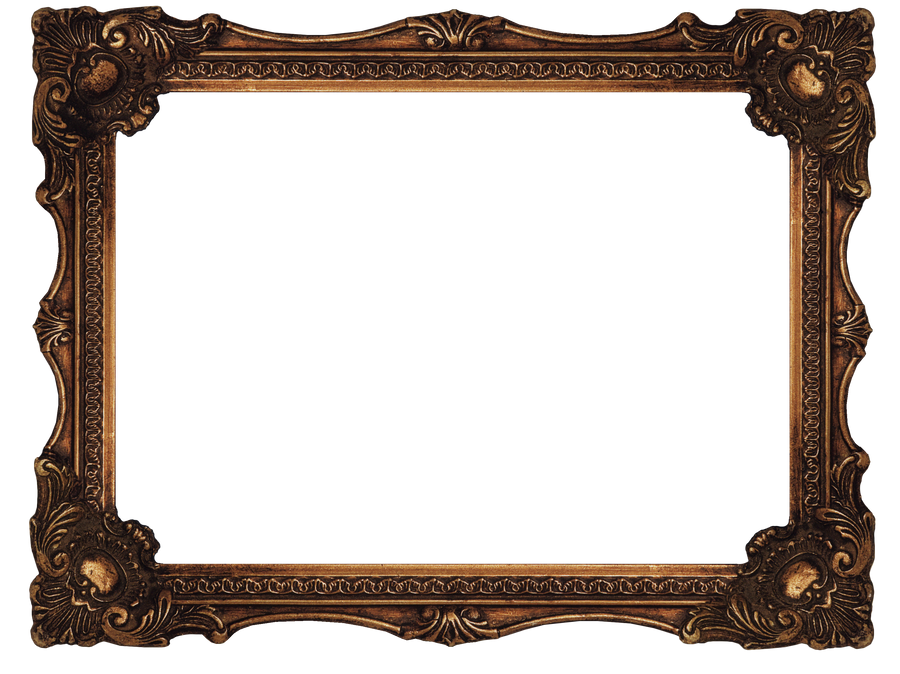
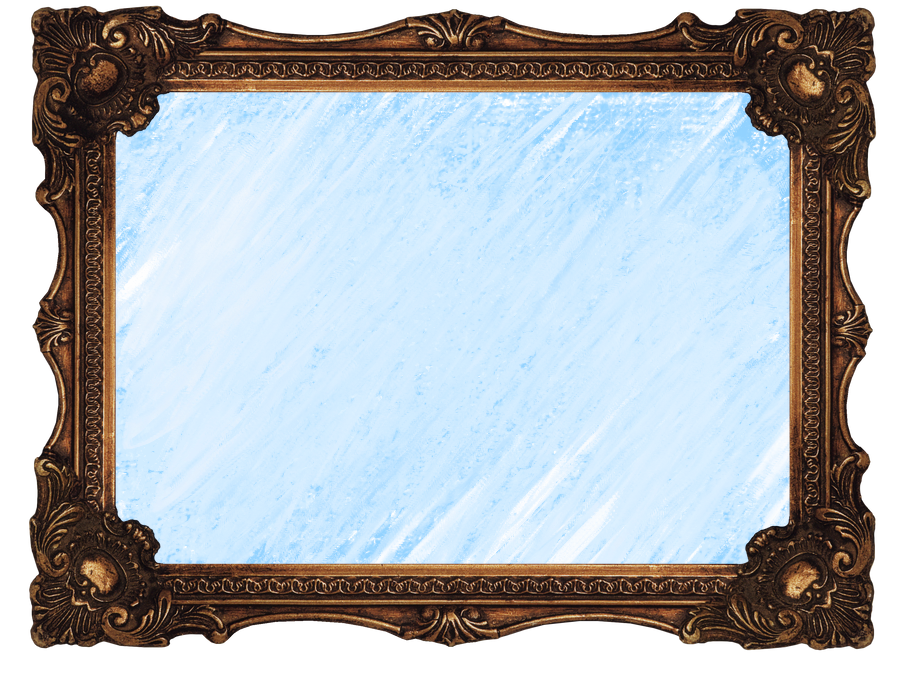
worked on buttons and formatting

diff --git a/main.css b/main.css
@@ -1,0 +1,164 @@
+.inbed { 
+    text-align: center;
+    
+}
+
+/* The code below adds a white background-color and black text color for the body of the page. */
+body {
+    color: rgb(194, 219, 255);
+    text-align: center;
+    background-image: url(assets/portfolioBackground.png);
+}
+
+
+/* The code below adds a black background-color and white text color for each section heading. */
+.section {
+    color:rgb(237, 247, 251);
+    text-align: center;
+    background-color: rgb(87, 123, 139);
+}
+
+p{
+    font-family: 'Bahnschrift', sans-serif;
+    font-size: 20px;
+}
+
+h1{
+    font-family: 'Segoe UI', sans-serif;
+    font-size: 40px;
+}
+
+.container {
+  position: relative;
+  text-align: center;
+  color: white;
+}
+
+.gram{
+  width: 200px;
+}
+
+.doily{
+  width:1150px;
+  margin-top: -65px;
+}
+
+#about{
+background-image: url(assets/woodframe.png);
+background-repeat: no-repeat;
+background-size: 750px;
+background-position-y: 150px;
+padding-top: 150px;
+width: 820px;
+padding-bottom: 40px;
+}
+
+.fish1 img{
+  width: 250px;
+}
+
+.fish1 {
+  background-color: transparent;
+  border-color: black;
+  box-sizing: content-box;
+}
+
+.fish2 img{
+  width: 300px;
+}
+
+.fish2{
+  border-color: black;
+  background-color: transparent;
+}
+
+.fish3 img{
+  width: 300px;
+}
+
+.fish3{
+  border-color: black;
+  background-color: transparent;
+}
+
+.fish4 img{
+  width: 300px;
+}
+
+.fish4{
+  border-color: black;
+  background-color: transparent;
+}
+
+.fish5 img{
+  width: 300px;
+}
+
+.fish5{
+  border-color: black;
+  background-color: transparent;
+}
+
+/* The sidebar menu */
+.sidebar {
+  height: 100%; /* 100% Full-height */
+  width: 0; /* 0 width - change this with JavaScript */
+  position: fixed; /* Stay in place */
+  z-index: 1; /* Stay on top */
+  top: 0;
+  left: 0;
+  background-color: #111; /* Black*/
+  overflow-x: hidden; /* Disable horizontal scroll */
+  padding-top: 60px; /* Place content 60px from the top */
+  transition: 0.5s; /* 0.5 second transition effect to slide in the sidebar */
+}
+
+/* The sidebar links */
+.sidebar a {
+  padding: 8px 8px 8px 32px;
+  text-decoration: none;
+  font-size: 25px;
+  color: #818181;
+  display: block;
+  transition: 0.3s;
+}
+
+/* When you mouse over the navigation links, change their color */
+.sidebar a:hover {
+  color: #f1f1f1;
+}
+
+/* Position and style the close button (top right corner) */
+.sidebar .closebtn {
+  position: absolute;
+  top: 0;
+  right: 25px;
+  font-size: 36px;
+  margin-left: 50px;
+}
+
+/* The button used to open the sidebar */
+.openbtn {
+  font-size: 20px;
+  cursor: pointer;
+  background-color: #111;
+  color: white;
+  padding: 10px 15px;
+  border: none;
+}
+
+.openbtn:hover {
+  background-color: #444;
+}
+
+/* Style page content - use this if you want to push the page content to the right when you open the side navigation */
+#main {
+  transition: margin-left .5s; /* If you want a transition effect */
+  padding-right: 1400px;
+}
+
+/* On smaller screens, where height is less than 450px, change the style of the sidenav (less padding and a smaller font size) */
+@media screen and (max-height: 450px) {
+  .sidebar {padding-top: 15px;}
+  .sidebar a {font-size: 18px;}
+}

diff --git a/main.html b/main.html
@@ -2,22 +2,36 @@
 <html>
 <head>
   <title>Student Portfolio</title>
-  <link href="style.css" rel="stylesheet" type="text/css" />
-  <script defer src="script.js"></script>
+  <link href="main.css" rel="stylesheet" type="text/css" />
+  <script defer src="main.js"></script>
 </head>
 
 <body>
 
-  <div class="topnav">
-  <a class="active" href="#main">About Me</a>
+<div id="mySidebar" class="sidebar">
+  <a href="javascript:void(0)" class="closebtn" onclick="closeNav()">&times;</a>
+  <a href="#about">About Me</a>
   <a href="projects.html">Projects</a>
   <a href="gallery.html">Gallery</a>
   <a href="resume.html">Resume</a>
-  <a href="contact.html">Contact</a> 
+  <a href="contact.html">Contact</a>
+</div>
 
-<div class="about">
-  <img class ="frame" src="assets/woodframe.png">
+<div id="main">
+  <button class="openbtn" onclick="openNav()">&#9776; Menu</button>
+</div>
+
+<div class="title">
+  <img class="doily" src="https://th.bing.com/th/id/R.d959c6f2f479b105b63a7d6594842e35?rik=LZO%2fPSYxw4iFWA&riu=http%3a%2f%2fclipart-library.com%2fnew_gallery%2f223-2237644_cookies.png&ehk=7z3GHg1Cl%2fZrP2PuLuN8mobzap6M%2fo1rfoOL2OllcP0%3d&risl=&pid=ImgRaw&r=0">
+</div>
+
+<div id="about">
+  
   <button class="fish1"><img src="assets/fish1.PNG"></button>
+  <button class="fish2"><img src="assets/fish2.PNG"></button>
+  <button class="fish3"><img src="assets/fish3.PNG"></button>
+  <button class="fish4"><img src="assets/fish4.PNG"></button>
+  <button class="fish5"><img src="assets/fish5.PNG"></button>
 </div>
 
   <div class="music">

diff --git a/main.js b/main.js
@@ -1,0 +1,11 @@
+/* Set the width of the sidebar to 250px and the left margin of the page content to 250px */
+function openNav() {
+  document.getElementById("mySidebar").style.width = "250px";
+  document.getElementById("main").style.marginLeft = "250px";
+}
+
+/* Set the width of the sidebar to 0 and the left margin of the page content to 0 */
+function closeNav() {
+  document.getElementById("mySidebar").style.width = "0";
+  document.getElementById("main").style.marginLeft = "0";
+}

diff --git a/contact.html b/contact.html
@@ -1,1 +1,13 @@
-<p>this is the contact page</p>
+<!DOCTYPE html>
+<html>
+<head>
+  <title>Student Portfolio</title>
+  <link href="contact.css" rel="stylesheet" type="text/css" />
+  
+</head>
+
+<body>
+
+
+</body>
+</html>

diff --git a/gallery.html b/gallery.html
@@ -1,0 +1,13 @@
+<!DOCTYPE html>
+<html>
+<head>
+  <title>Student Portfolio</title>
+  <link href="gallery.css" rel="stylesheet" type="text/css" />
+  
+</head>
+
+<body>
+
+
+</body>
+</html>

diff --git a/projects.html b/projects.html
@@ -1,0 +1,13 @@
+<!DOCTYPE html>
+<html>
+<head>
+  <title>Student Portfolio</title>
+  <link href="resume.css" rel="stylesheet" type="text/css" />
+  
+</head>
+
+<body>
+
+
+</body>
+</html>
